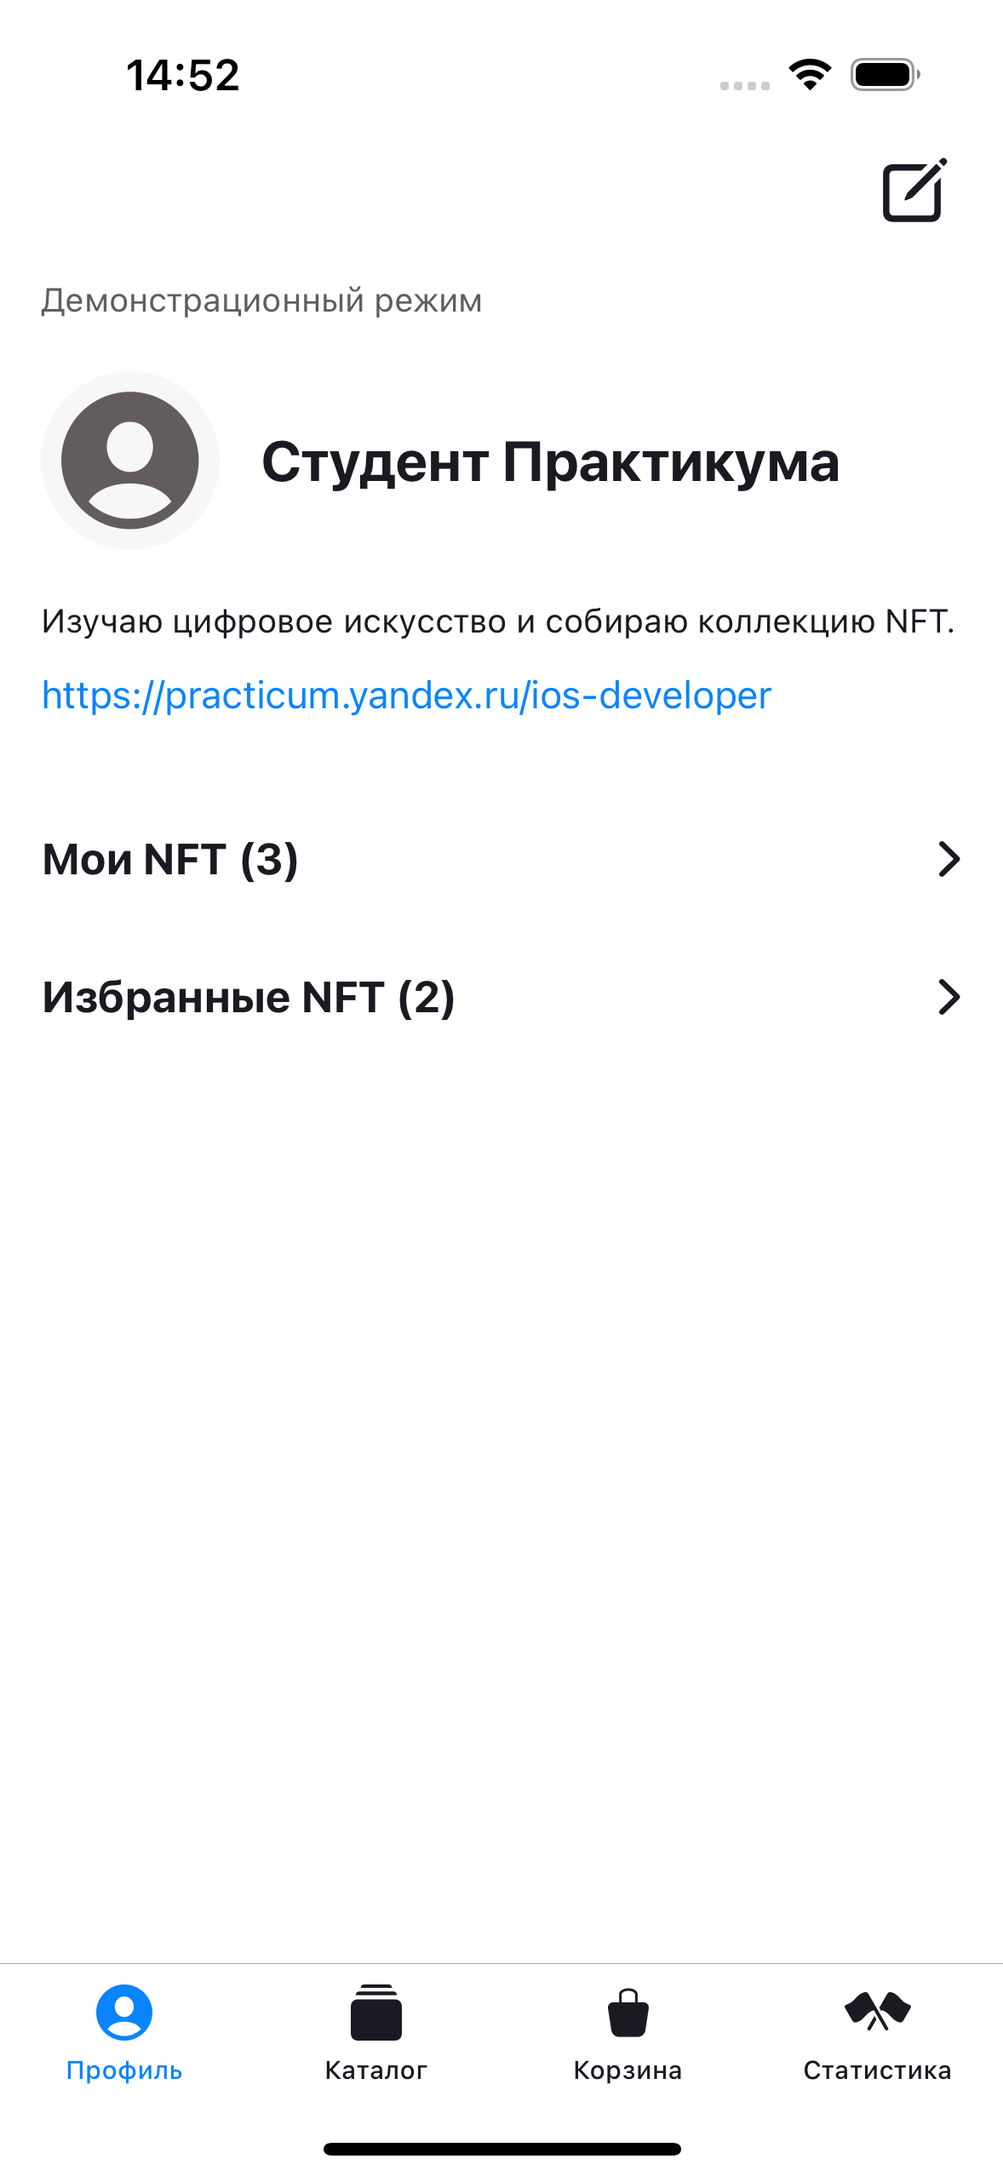
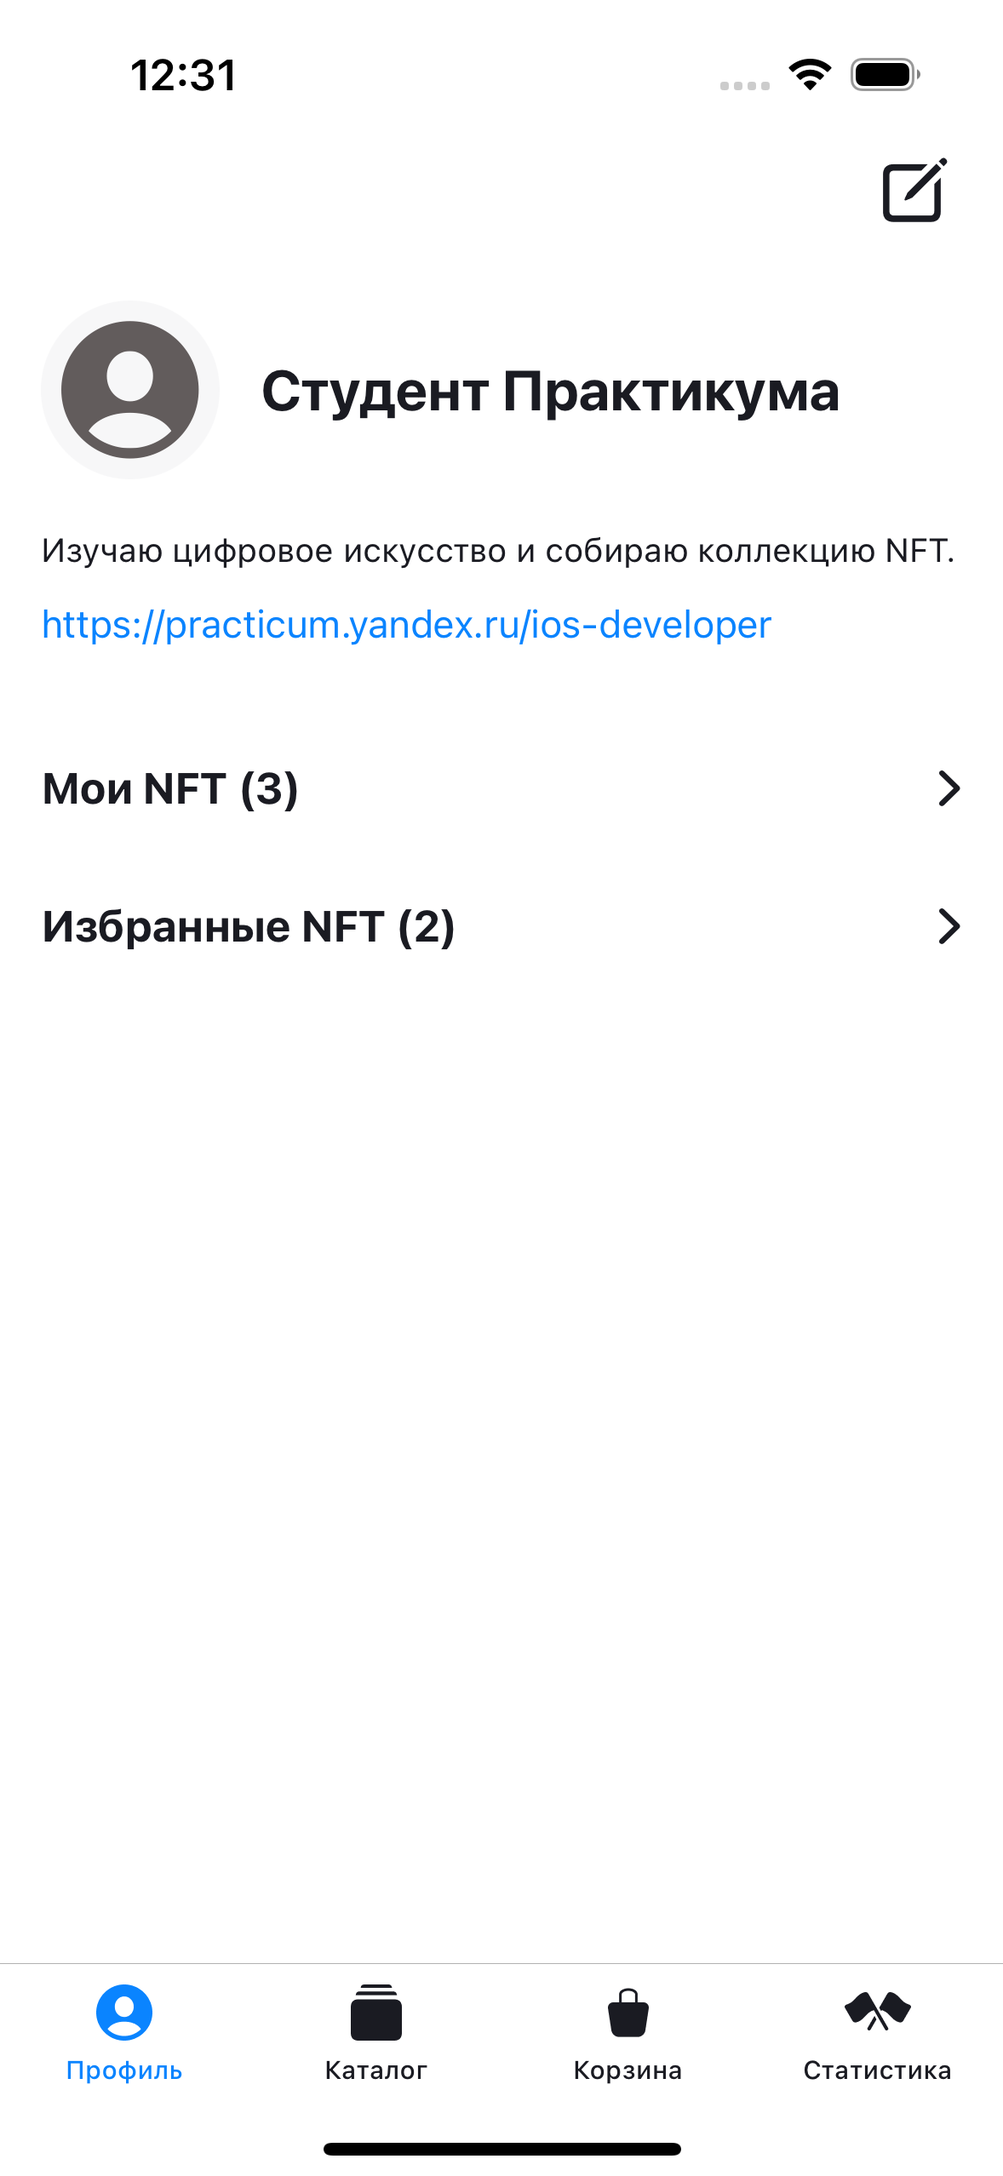
Remove demo badge to match profile design

Changed region(s): [[0.0306, 0.1236, 0.8557, 0.4636], [0.1222, 0.0309, 0.2445, 0.0618], [0.8862, 0.2473, 0.9168, 0.3091]]

diff --git a/iOS-FakeNFT-Extended/Features/Profile/Views/ProfileView.swift b/iOS-FakeNFT-Extended/Features/Profile/Views/ProfileView.swift
@@ -4,8 +4,7 @@ struct ProfileRootView: View {
     @Environment(ServicesAssembly.self) private var services
 
     var body: some View {
-        ProfileView(viewModel: ProfileViewModel(service: services.profileService),
-                    showsDemoBadge: services.usesDemoProfileData)
+        ProfileView(viewModel: ProfileViewModel(service: services.profileService))
     }
 
 }
@@ -14,11 +13,9 @@ struct ProfileView: View {
     @State private var viewModel: ProfileViewModel
     @State private var editingProfile: UserProfile?
     @State private var website: ProfileWebsite?
-    private let showsDemoBadge: Bool
 
-    init(viewModel: ProfileViewModel, showsDemoBadge: Bool = false) {
+    init(viewModel: ProfileViewModel) {
         _viewModel = State(initialValue: viewModel)
-        self.showsDemoBadge = showsDemoBadge
     }
 
     var body: some View {
@@ -64,13 +61,6 @@ struct ProfileView: View {
         case .loaded(let profile):
             ScrollView {
                 VStack(alignment: .leading, spacing: 0) {
-                    if showsDemoBadge {
-                        Text("Profile.demo")
-                            .font(AppFont.regular13)
-                            .foregroundStyle(.greyUniversal)
-                            .padding(.top, 12)
-                            .accessibilityIdentifier("profile.demo")
-                    }
                     HStack(spacing: 16) {
                         ProfileAvatarView(url: profile.avatarURL, size: 70)
                         Text(profile.name)

diff --git a/iOS-FakeNFT-ExtendedUITests/iOS_FakeNFT_ExtendedUITests.swift b/iOS-FakeNFT-ExtendedUITests/iOS_FakeNFT_ExtendedUITests.swift
@@ -150,8 +150,7 @@ final class iOS_FakeNFT_ExtendedUITests: XCTestCase {
         let app = XCUIApplication()
         app.launchArguments = ["-AppleLanguages", "(ru)", "-AppleLocale", "ru_RU"]
         app.launch()
-        XCTAssertTrue(app.staticTexts["profile.demo"].waitForExistence(timeout: 10))
-        XCTAssertTrue(app.staticTexts["profile.name"].exists)
+        XCTAssertTrue(app.staticTexts["profile.name"].waitForExistence(timeout: 10))
         attachScreenshot("Демонстрационный профиль")
         app.buttons["profile.my-nfts"].tap()
         XCTAssertTrue(app.staticTexts.matching(identifier: "profile.nfts.name").firstMatch.waitForExistence(timeout: 10))

diff --git a/docs/profile-iteration-2.md b/docs/profile-iteration-2.md
@@ -72,7 +72,7 @@ Debug-сборка на iPhone 16 / iOS 18.4, Xcode 16.3 — успешно. **3
 
 Оценки и границы частей — [декомпозиция](profile-decomposition.md); фактические интервалы — [worklog](profile-worklog.md).
 
-По уроку для сдачи требуется взаимное ревью с партнёром по команде: комментарии, обработка замечаний и финальный approve. Вадим (shaggybee) оставил комментарии 01.11; также получен запрос на изменения от Kirchberg. Финальный approve после обработки замечаний ещё ожидается. Самопроверка и автотесты не засчитываются как командное ревью. После approve можно отправить ссылку на PR во вкладке «Ревью» урока «2/3 эпика».
+По уроку для сдачи требуется взаимное ревью с партнёром по команде: комментарии, обработка замечаний и финальный approve. Вадим (shaggybee) оставил комментарии 01.11; также получен запрос на изменения от Kirchberg. Вадим поставил approve 02.11 коммиту 47eca70; его дополнительное замечание о надписи режима обработано 03.11. Повторная проверка Kirchberg после исправлений ещё не подтверждена. Самопроверка и автотесты не засчитываются как командное ревью. После approve можно отправить ссылку на PR во вкладке «Ревью» урока «2/3 эпика».
 
 ## Доработка по ревью — 02.11.2026
 
@@ -87,3 +87,7 @@ Debug-сборка на iPhone 16 / iOS 18.4, Xcode 16.3 — успешно. **3
 Release-сборка для iOS Simulator также прошла. Обнаруженное отсутствие Base.xcconfig в конфигурации Release исправлено; токен подключается из игнорируемого файла. Проверка токена в build phase теперь обязательна для Release; Debug допускает сборку демонстрационного режима без токена и даже без Secrets.xcconfig. Проверено выполнение build phase при отсутствующем файле; в Release-бинарнике отсутствуют символы классов MockProfileService и MockProfileNFTsService.
 
 После переноса отметки демонстрационного режима внутрь профиля отдельно повторён UI-сценарий обычного Debug-запуска с переопределением `API_TOKEN=`: профиль, NFT, возврат и открытие редактора прошли, кнопка редактирования доступна для нажатия. Результат — work/ProfileDemoWithoutToken.xcresult.
+
+## Дополнительное замечание к макету — 03.11.2026
+
+Надпись «Демонстрационный режим» удалена из интерфейса по замечанию shaggybee; данные и режимы запуска сохранены. Кнопка редактирования, переход к NFT и возврат проверены повторным UI-прогоном с пустым API_TOKEN — успешно (work/ProfileDemoLayoutReview.xcresult). Снимок профиля обновлён. Предыдущие 36 unit-тестов и остальные 9 UI-сценариев повторно не запускались: сервисы, сортировки и загрузка не менялись.

diff --git a/docs/profile-decomposition.md b/docs/profile-decomposition.md
@@ -27,11 +27,11 @@ SwiftUI, MVVM (`@Observable`), iOS 17.0+, Swift Concurrency. Сервисы — 
 | [P8](https://github.com/shaggybee/iOS-FakeNFT/issues/44) | Список NFT по макету: картинка, название, автор, цена | 3 | Реализовано, ожидает командного ревью |
 | [P9](https://github.com/shaggybee/iOS-FakeNFT/issues/45) | Сортировка, по умолчанию рейтинг; сохранение выбора | 2 | Реализовано, тесты прошли |
 | [P10](https://github.com/shaggybee/iOS-FakeNFT/issues/46) | Пустой список, загрузка, ошибки и навигация | 1.5 | Реализовано, тесты прошли |
-| [P11](https://github.com/shaggybee/iOS-FakeNFT/issues/47) | Тесты, взаимное ревью и обработка замечаний | 3 | 36 unit-тестов и 10 UI-сценариев прошли; замечания Kirchberg/shaggybee обработаны, повторный approve ожидается |
+| [P11](https://github.com/shaggybee/iOS-FakeNFT/issues/47) | Тесты, взаимное ревью и обработка замечаний | 3 | 36 unit-тестов и 10 UI-сценариев прошли; замечания обработаны, approve shaggybee есть; повторная проверка Kirchberg ожидается |
 
 Готовность: раздел открывается из профиля; показаны реальные NFT; сортировка сохраняется после перезапуска; пройдено командное ревью. В сдачу входят первая и вторая части.
 
-Текущее состояние второй части и ограничения интеграции — в [описании итерации](profile-iteration-2.md). Состав третьей части остаётся в бэклоге. Подтверждение approve партнёра по команде для второй части пока не получено.
+Текущее состояние второй части и ограничения интеграции — в [описании итерации](profile-iteration-2.md). Состав третьей части остаётся в бэклоге. Партнёр shaggybee поставил approve 02.11. Дополнительное замечание о надписи режима обработано 03.11; повторная проверка Kirchberg после исправлений ещё не подтверждена.
 
 ## 3/3 — «Избранные NFT» и интеграция (12 часов)
 

diff --git a/docs/profile-demo-data.md b/docs/profile-demo-data.md
@@ -1,6 +1,6 @@
 # Просмотр профиля без API
 
-В Debug-сборке по умолчанию включён демонстрационный режим профиля. Достаточно открыть проект, выбрать схему iOS-FakeNFT-Extended и запустить приложение. API-токен и интернет для профиля, редактирования и списка «Мои NFT» не нужны. На экране отображается отметка «Демонстрационный режим».
+В Debug-сборке по умолчанию включён демонстрационный режим профиля. Достаточно открыть проект, выбрать схему iOS-FakeNFT-Extended и запустить приложение. API-токен и интернет для профиля, редактирования и списка «Мои NFT» не нужны. Дополнительных надписей режима в интерфейсе нет: экран соответствует макету.
 
 MockProfileService и MockProfileNFTsService реализуют те же протоколы, что и сетевые сервисы. ServicesAssembly сохраняет экземпляры сервисов на время работы приложения. Изменения профиля хранятся в памяти: их можно увидеть после возврата и повторного открытия экрана; после перезапуска возвращается исходный профиль. Сортировка, как и в сетевом режиме, сохраняется в UserDefaults.
 
@@ -14,7 +14,7 @@ Release-сборка всегда использует сетевые серви
 
 ## UI-тесты
 
-`--profile-ui-testing` включает изолированные моковые сервисы без отметки демонстрационного режима. Этот аргумент имеет приоритет над `--profile-live-api`. Аргументы ошибок обрабатываются только в режиме UI-тестов:
+`--profile-ui-testing` включает изолированные моковые сервисы. Этот аргумент имеет приоритет над `--profile-live-api`. Аргументы ошибок обрабатываются только в режиме UI-тестов:
 
 - `--profile-fail-first-load` — ошибка первой загрузки профиля;
 - `--profile-empty-nfts` — пустая коллекция;

diff --git a/docs/profile-worklog.md b/docs/profile-worklog.md
@@ -48,3 +48,9 @@ P11 остаётся в работе: взаимное ревью партнёр
 Исправлены отмена повторной загрузки и тест её фактического начала, вынесены переводы/иконки/лимит запросов, добавлен демонстрационный режим с локальными PNG. Полный прогон: 36 unit-тестов и 10 UI-сценариев — успешно. Визуальная проверка выявила перекрытие кнопки редактирования отметкой режима; размещение исправлено, отдельный повтор UI-сценария с пустым API_TOKEN успешен. Release-сборка сначала выявила отсутствие Base.xcconfig в своей конфигурации; подключение исправлено, повторная сборка успешна, моковые сервисы в бинарник не входят.
 
 Комментарии Kirchberg и shaggybee обработаны в коде; повторный approve ещё ожидается. P11 остаётся In progress.
+
+## Дополнительное замечание к макету — 03.11.2026
+
+После предыдущей доработки shaggybee оставил замечание о надписи режима и поставил approve коммиту 47eca70. Надпись удалена из интерфейса, лишний параметр View и строка локализации убраны; моковые сервисы сохранены. Текущий UI-сценарий обычного Debug-запуска с пустым API_TOKEN прошёл: профиль, список NFT, возврат и открытие редактора. Снимок профиля обновлён. Результат — work/ProfileDemoLayoutReview.xcresult.
+
+Подтверждённый дополнительный интервал автоматизированной доработки и проверки: 12:29:48–12:32:09 (Москва), **2 мин 21 с**. Предварительное чтение комментариев, публикация и очистка после замера не включены. Интервал добавлен к P11 один раз; суммарный факт P11 — 32.1833 минуты. Повторная проверка Kirchberg после исправлений ещё не подтверждена.
